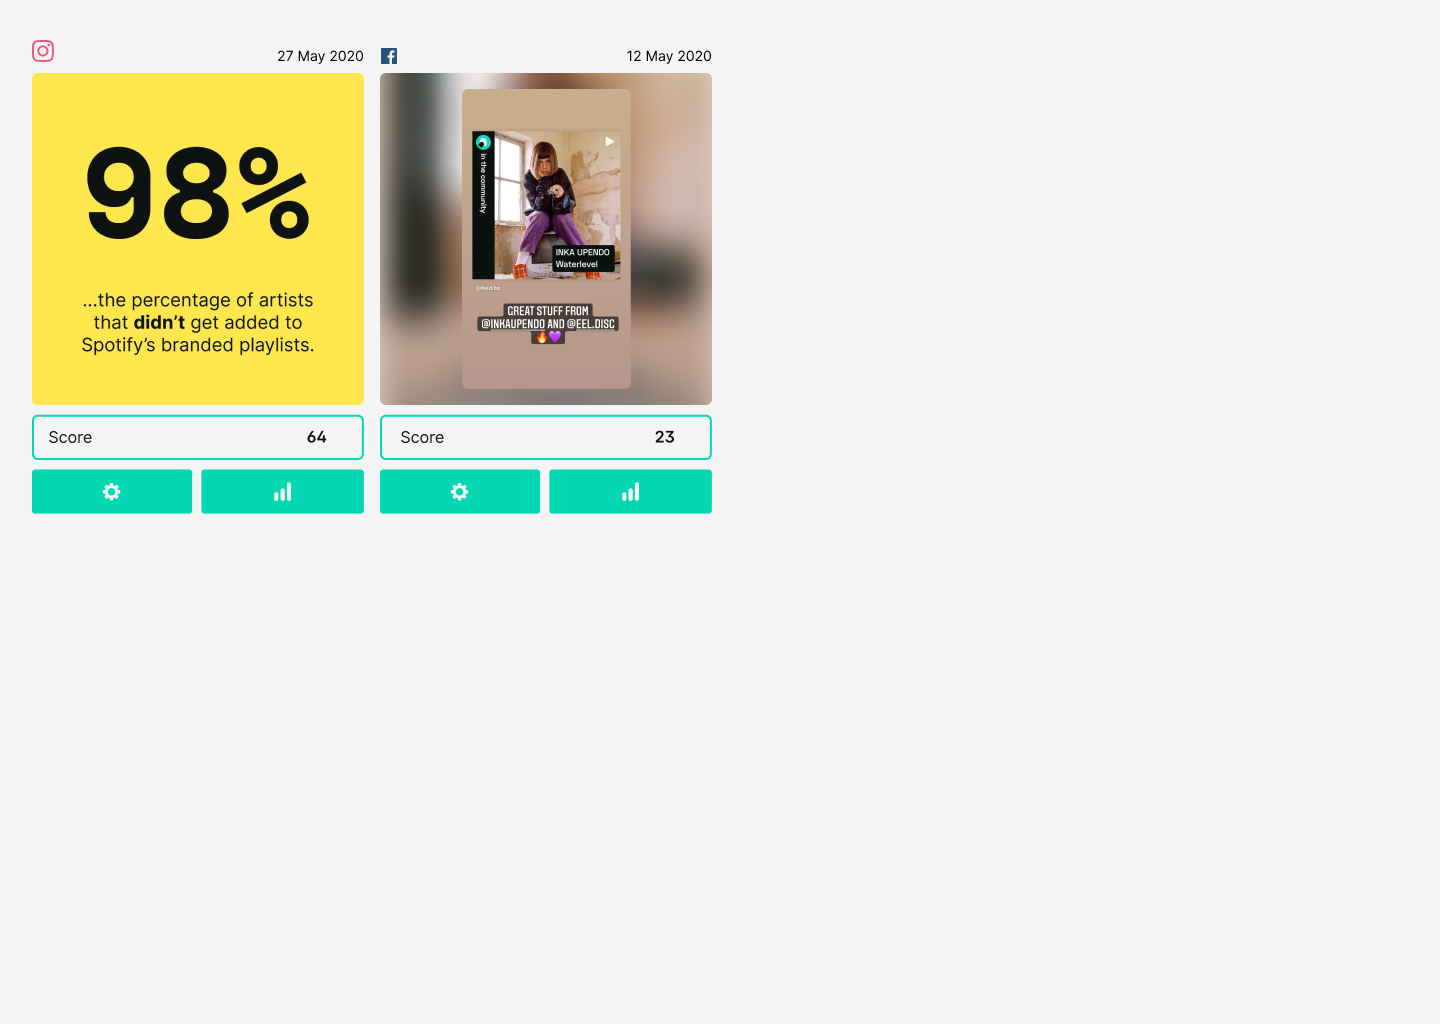
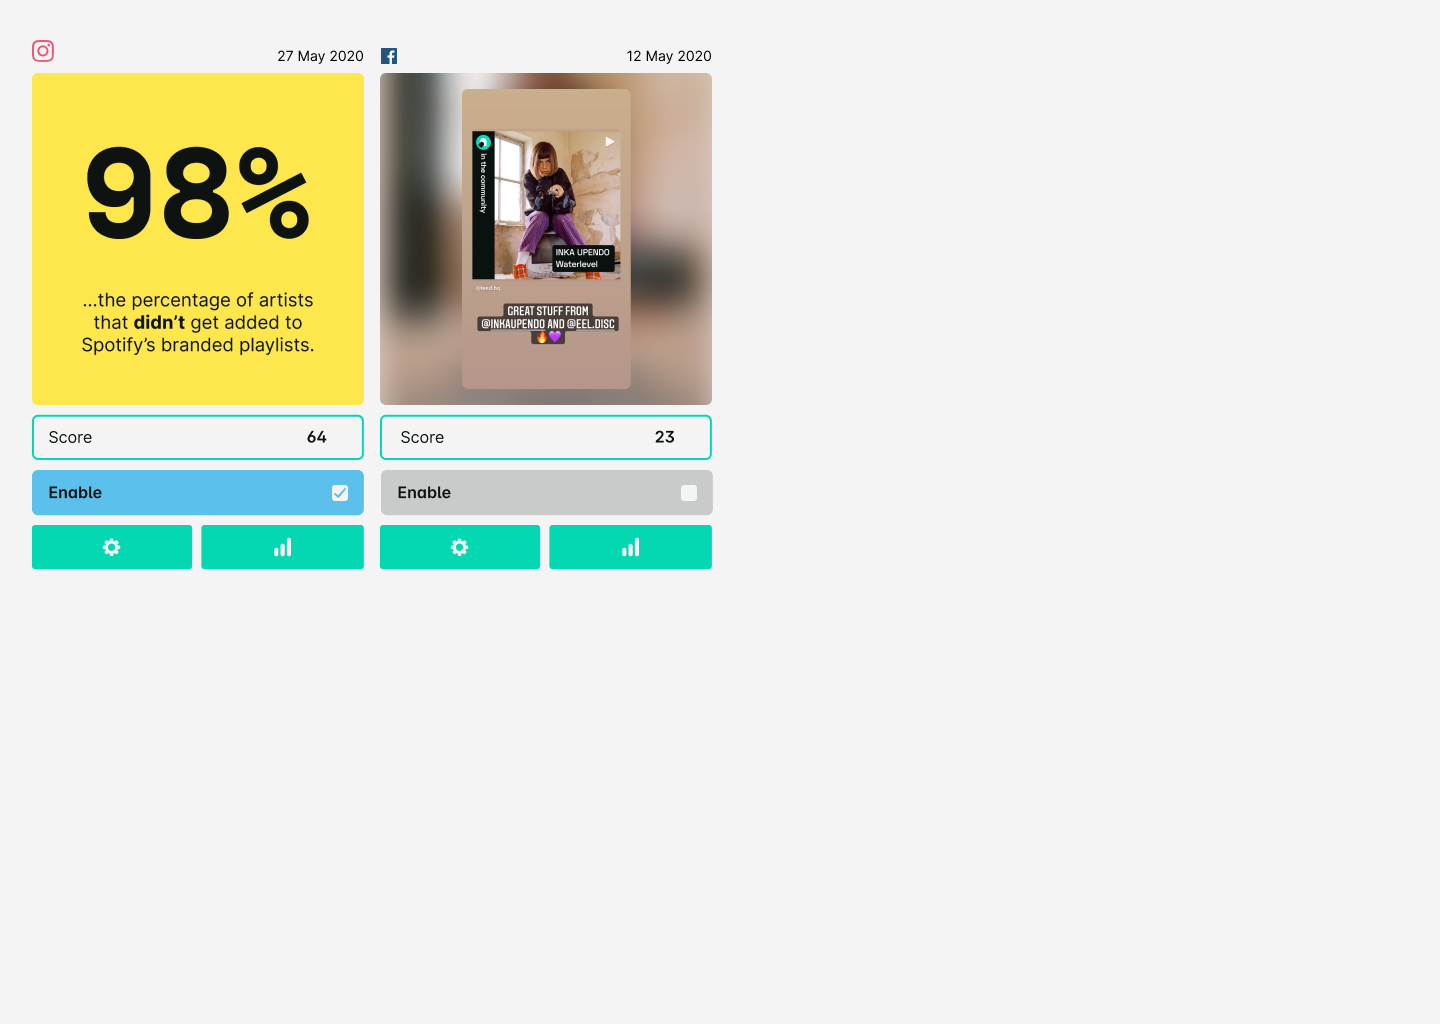
add toggle post promotion task

Changed region(s): [[0.0, 0.4375, 0.5, 0.5625]]

diff --git a/components/PostCard.jsx b/components/PostCard.jsx
@@ -4,6 +4,7 @@ import PropTypes from 'prop-types'
 import FacebookIcon from '@/FacebookIcon'
 import InstagramIcon from '@/InstagramIcon'
 import LinkIcon from '@/LinkIcon'
+import TickIcon from '@/TickIcon'
 import InsightsIcon from '@/InsightsIcon'
 import PostCardData from '@/PostCardData'
 import PostCardLink from '@/PostCardLink'
@@ -11,23 +12,42 @@ import PostCardLink from '@/PostCardLink'
 import brandColors from '@/constants/brandColors'
 
 const PostCard = ({ post }) => {
+  console.log('post', post)
   return (
     <div className="col-span-3">
+
       <div>
         {/* TODO: change icon based on the post platform */}
         <FacebookIcon className="h-4 w-auto" fill={brandColors.facebook.bg} />
         {/* TODO: format date properly */}
         <p>{post.published_time}</p>
       </div>
+
       <div className="rounded-dialogue mb-4">
-        {/* TODO: use fallback image if the first image has an error */}
         {/* TODO: if the post is a story, restrict the height of the tall image and use a blurred version as a background */}
+        {/* TODO: use fallback image if the first image has an error */}
         <img src={post.thumbnails[0].url} />
       </div>
       <div className="p-2 border border-solid border-green">
         <p>Score</p>
         <p>{post.engagement_score}</p>
       </div>
+
+      {/* TODO: Make this button work */}
+      <button
+        className="bg-blue p-2"
+        onClick={() => {
+          console.log('Update `post.promotion_enabled`')
+        }}
+      >
+        <p>Enable</p>
+        <div className="w-5 h-5 p-1 bg-white">
+          {post.promotion_enabled && (
+            <TickIcon className="w-full h-auto" fill={brandColors.blue} />
+          )}
+        </div>
+      </button>
+
       {/* TODO: make both buttons equal size but keep the same gap between them. */}
       <div className="flex">
         <button

diff --git a/components/TickIcon.jsx b/components/TickIcon.jsx
@@ -1,0 +1,41 @@
+import React from 'react'
+import PropTypes from 'prop-types'
+
+import brandColors from '@/constants/brandColors'
+
+const TickIcon = ({
+  fill,
+  className,
+  style,
+}) => {
+  return (
+    <svg
+      width="416"
+      height="367"
+      viewBox="0 0 416 367"
+      fill="none"
+      xmlns="http://www.w3.org/2000/svg"
+      className={className}
+      style={style}
+    >
+      <path d="M150.055 367C142.631 367 135.671 364.176 130.567 358.999L8.99806 231.926C-2.60203 221.102 -3.06604 202.747 8.07006 190.981C18.7421 179.215 36.8383 178.744 48.4384 190.039L137.527 254.517C142.631 259.223 150.519 258.282 154.695 252.634L364.528 12.1726C373.808 -0.534628 391.904 -3.35847 404.432 6.52497C416.96 15.9378 419.744 34.2927 410 47L172.791 355.234C167.687 361.823 160.263 366.059 152.375 366.529C151.447 367 150.983 367 150.055 367Z" fill={fill} />
+    </svg>
+
+  )
+}
+
+
+TickIcon.propTypes = {
+  fill: PropTypes.string,
+  className: PropTypes.string,
+  style: PropTypes.object,
+}
+
+TickIcon.defaultProps = {
+  fill: brandColors.textColor,
+  className: null,
+  style: null,
+}
+
+
+export default TickIcon

diff --git a/constants/brandColors.js b/constants/brandColors.js
@@ -2,6 +2,7 @@ const white = '#F4F4F4'
 const black = '#0D1311'
 const green = '#03D8B2'
 const red = '#FA5450'
+const blue = '#5BC0EB'
 const greyLight = '#E7E9E8'
 const grey = '#C8CBCA'
 const greyDark = '#7F8382'
@@ -12,6 +13,7 @@ const brandColors = {
   black,
   green,
   red,
+  blue,
   greyLight,
   grey,
   greyDark,
@@ -33,7 +35,7 @@ const brandColors = {
     text: white,
   },
   twitter: {
-    bg: '#5BC0EB',
+    bg: blue,
     text: black,
   },
   spotify: {
